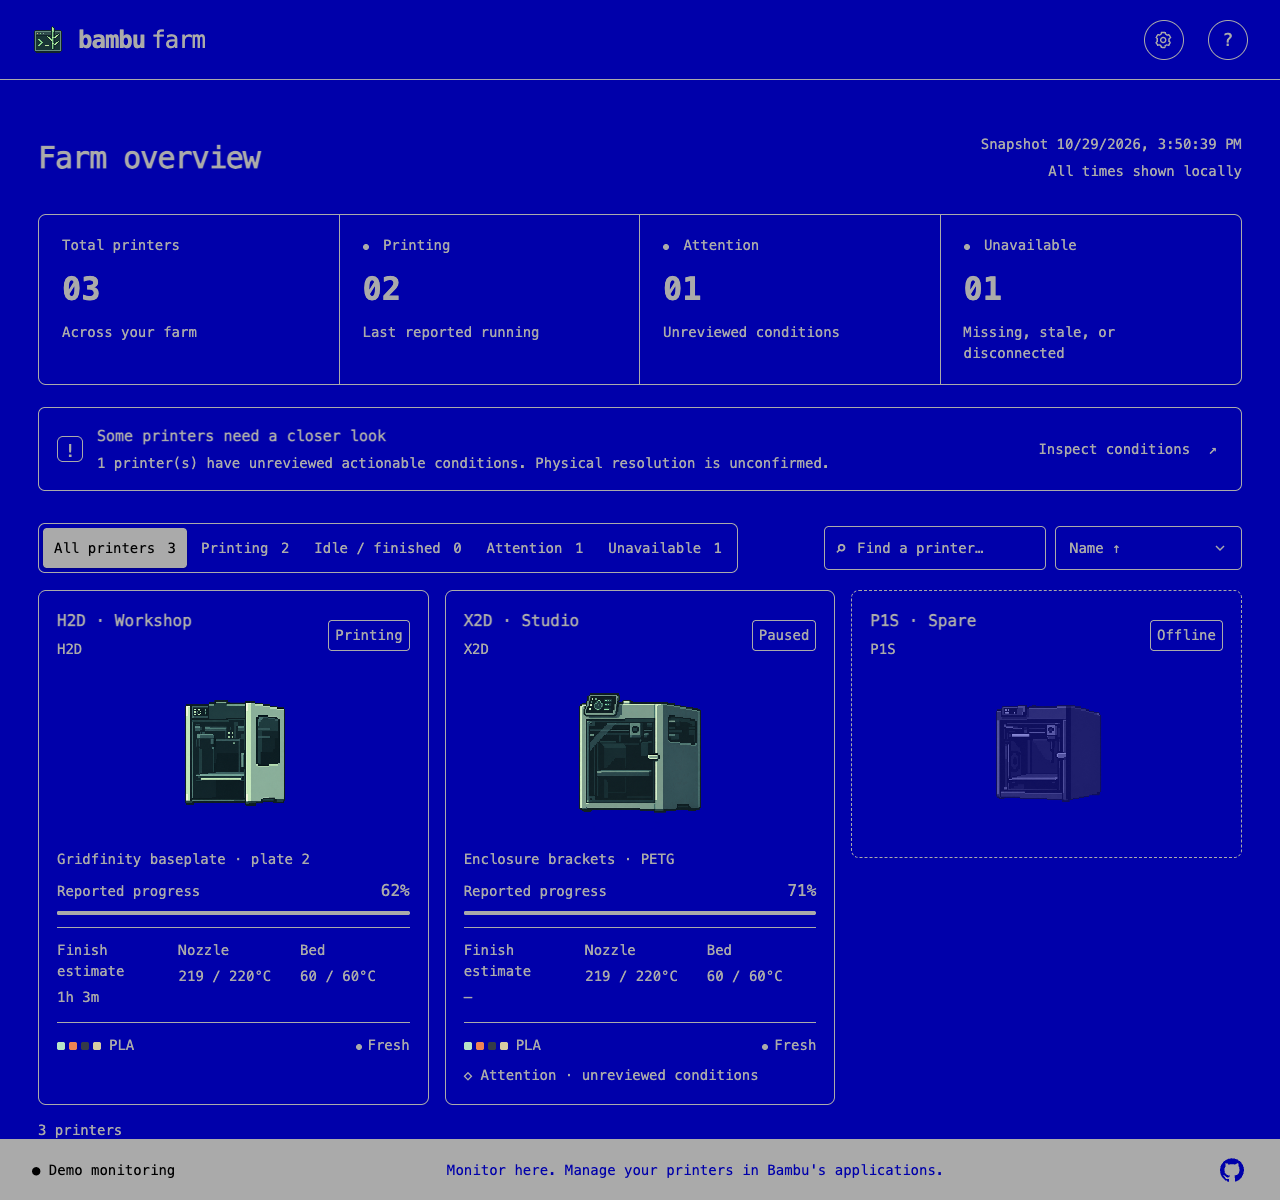
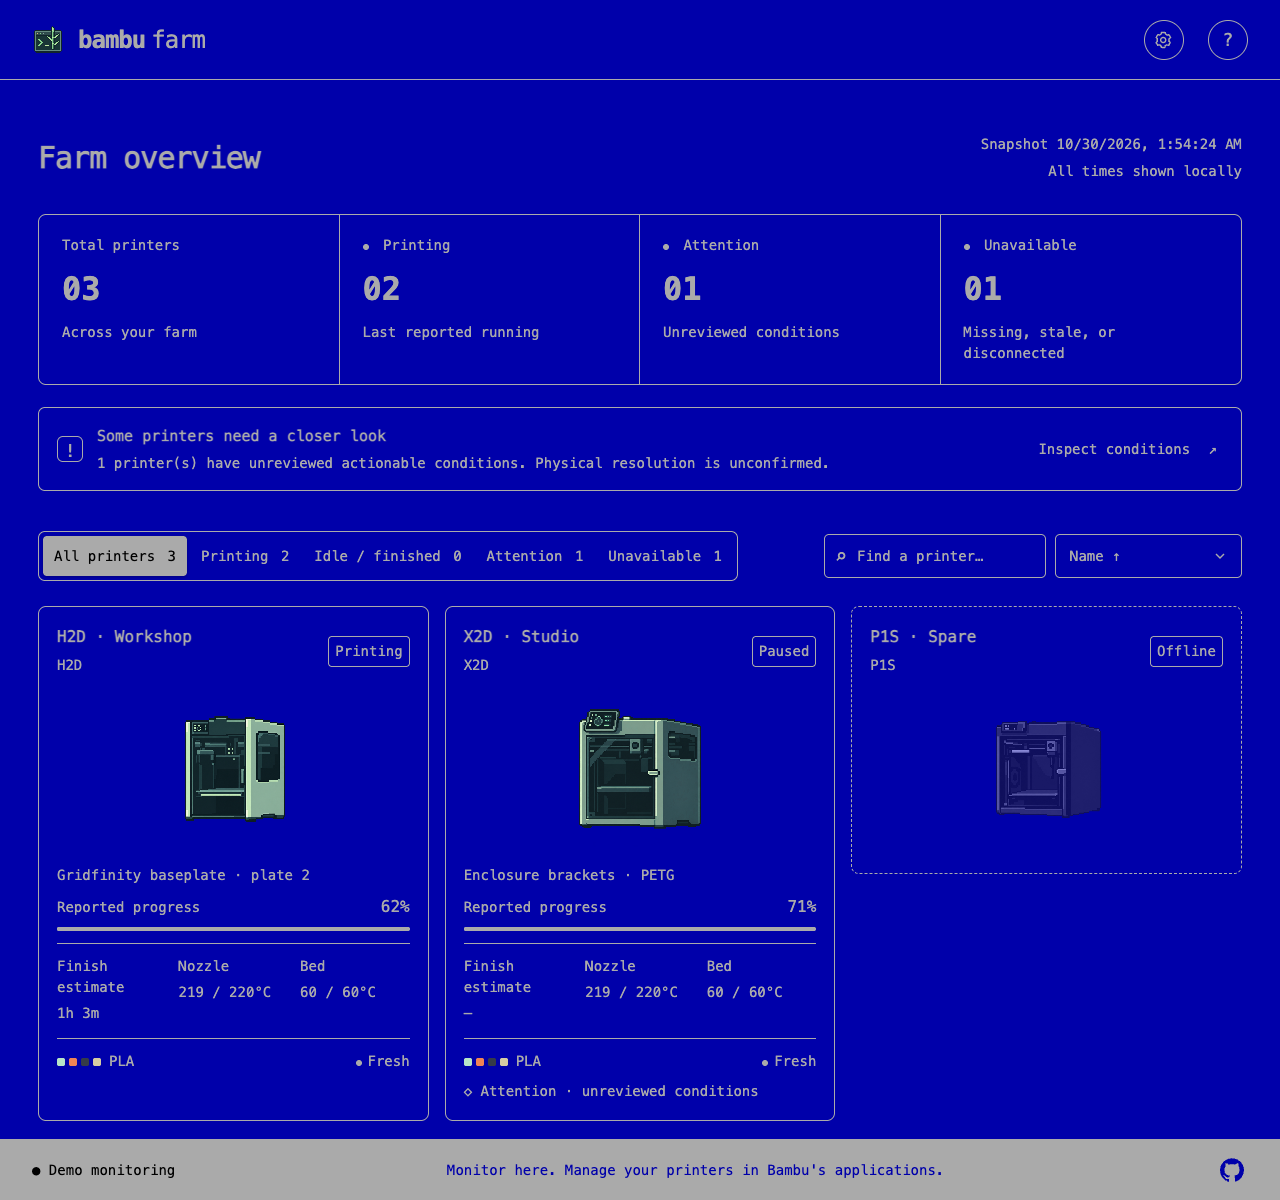
Prepare v0.4.7: compact browser header and pin printer toolbar

diff --git a/internal/webserver/assets/app.js b/internal/webserver/assets/app.js
@@ -384,6 +384,48 @@ $("#settings").onclick = () => $("#settings-dialog").showModal();
 $("#close-settings").onclick = () => $("#settings-dialog").close();
 $("#about").onclick = () => $("#about-dialog").showModal();
 $("#close-about").onclick = () => $("#about-dialog").close();
+// The header sits outside the scrolling workspace. Keep the height it releases
+// in the already-scrolled introduction, so collapse never shifts visible cards
+// or changes the scroll range. No animation: geometry and focus stay in sync.
+function setupWorkspaceLayout() {
+  const shell = $(".shell");
+  if (!shell) return;
+  const header = $("header"), toolbar = $(".toolbar");
+  let compact = false;
+  function measure() {
+    header.classList.remove("compact");
+    const expandedHeight = header.getBoundingClientRect().height;
+    header.classList.toggle("compact", compact);
+    const reclaimed = expandedHeight - header.getBoundingClientRect().height;
+    shell.style.setProperty("--header-reclaimed", `${reclaimed}px`);
+    const toolbarHeight = toolbar.getBoundingClientRect().height;
+    const minimum = Math.min(12 * parseFloat(getComputedStyle(document.documentElement).fontSize), innerHeight / 2);
+    const pin = shell.clientHeight >= toolbarHeight + minimum;
+    shell.classList.toggle("toolbar-scrolls", !pin);
+    shell.style.setProperty("--toolbar-clearance", pin ? `${toolbarHeight + 8}px` : "0px");
+  }
+  shell.addEventListener("scroll", () => {
+    const next = shell.scrollTop > 24;
+    if (next === compact) return;
+    compact = next;
+    measure();
+  }, {passive: true});
+  // Reflow can change header, toolbar, and footer heights (including 200% text).
+  const observer = new ResizeObserver(measure);
+  for (const element of [shell, header, toolbar]) observer.observe(element);
+  shell.addEventListener("focusin", event => {
+    const card = event.target.closest(".card");
+    if (!card) return;
+    requestAnimationFrame(() => {
+      if (document.activeElement !== card || shell.classList.contains("toolbar-scrolls")) return;
+      const top = shell.getBoundingClientRect().top + toolbar.getBoundingClientRect().height + 8;
+      const cardTop = card.getBoundingClientRect().top;
+      if (cardTop < top) shell.scrollTop += cardTop - top;
+    });
+  });
+  measure();
+}
+setupWorkspaceLayout();
 document.addEventListener("visibilitychange", () => {
   if (!controller) poll();
 });

diff --git a/internal/webserver/assets/index.html b/internal/webserver/assets/index.html
@@ -202,6 +202,11 @@
         Filters and sorting preserve your printer selection as updates arrive. The Idle / finished filter includes only currently available online printers explicitly reporting Idle or Finished. Offline, stale, missing, and unknown states are excluded; a finished job does not establish that the build plate is clear. Search narrows the selected filter.
       </p>
       <p>
+        Scrolling the farm compacts the header. The filter, search, and sort toolbar
+        stays beneath it once reached. Return to the top to expand the header.
+        In small workspaces, the toolbar scrolls with the cards to keep them reachable.
+      </p>
+      <p>
         Sorting always places online non-idle printers first, reported idle or
         finished printers next, and offline devices last. Name, Attention, or
         State ordering applies within each group. Unknown states stay outside

diff --git a/internal/webserver/assets/style.css b/internal/webserver/assets/style.css
@@ -158,6 +158,18 @@ i {
 .shell {
   min-height: 0;
   overflow: auto;
+  overflow-anchor: none;
+  scroll-padding-top: var(--toolbar-clearance, 0px);
+}
+/* Reclaim header space without moving the content currently being read. */
+header.compact {
+  min-height: 56px;
+  padding-block: 4px;
+}
+main::before {
+  content: "";
+  display: block;
+  height: var(--header-reclaimed, 0px);
 }
 .eyebrow {
   font-size: 0.875rem;
@@ -300,12 +312,20 @@ h2 > span {
   margin-left: 7px;
 }
 .toolbar {
+  position: sticky;
+  top: 0;
+  z-index: 1;
+  background: var(--bg);
+  padding-block: 8px;
   flex-wrap: wrap;
   display: flex;
   align-items: center;
   justify-content: space-between;
   gap: 12px;
   margin-bottom: 17px;
+}
+.shell.toolbar-scrolls .toolbar {
+  position: static;
 }
 .filters {
   display: flex;

diff --git a/internal/buildinfo/buildinfo.go b/internal/buildinfo/buildinfo.go
@@ -4,7 +4,7 @@ import "fmt"
 
 // Release builds inject these through -ldflags. Direct go builds remain useful.
 var (
-	Version = "0.4.6"
+	Version = "0.4.7"
 	Commit  = "unknown"
 	Date    = "unknown"
 )

diff --git a/docs/user/usage.md b/docs/user/usage.md
@@ -82,6 +82,8 @@ The dashboard shows the whole-farm summary, searchable/filterable printer cards,
 
 Use the single printer toolbar to choose **All printers**, **Printing**, **Idle / finished**, **Attention**, or **Unavailable**. Every filter tab shows its matching printer count before search is applied; attention and availability can overlap reported print states. Summary totals describe the whole farm and are not filter buttons. **Idle / finished** includes only currently available online printers explicitly reporting `IDLE` or `FINISH`, with a count before search is applied. Search narrows the selected filter; sorting applies within it. The count below the cards reads `3 printers` when all are visible or `2 of 3 printers` for a subset; Help explains how whole-farm state, attention, and availability counts overlap. Missing/stale telemetry, offline/cloud-disconnected devices, and unknown/active/paused/failed states are excluded from this view. A delayed or disconnected browser feed also removes these current-availability results until recovery. Existing Printing totals and filters still describe the last reported state, independently of availability; the groups can overlap Attention.
 
+Scrolling the farm compacts the branding/Settings/Help header; returning to the top expands it. Once the filter/search/sort toolbar reaches the header, it stays beneath it while printer cards scroll. In short windows or with heavily wrapped controls (including enlarged text), the toolbar scrolls normally when pinning would leave too little room for cards. Keyboard-focused card headings stay clear of the pinned toolbar.
+
 Idle and Finished stay distinct on the cards. Neither confirms that a build plate is clear, a fault is resolved, or a printer is ready for another job. Offline cards show the printer name, model, and image with an explicit **Offline** label, a dashed border, and dimmed grayscale artwork. Job, progress, time, temperature, and material readings are omitted from these cards; click or keyboard-open the card to inspect last-known details and notices. Attention warnings remain visible. Only an explicit device-offline report selects this layout; stale data or a disconnected cloud/browser feed does not. Other cards with unavailable telemetry show one warning that their readings are last-known and missing values remain unknown. Material text wraps; full job names and telemetry remain available through inspection. Polling preserves focus and cards that remain visible; if the focused card leaves the active filter, focus returns to that filter button. Connection/demo mode stays on the left of the footer and the repository link on the right, without a duplicate sidebar.
 
 Open **Settings** using the gear button beside Help in the dashboard header. Its **Browser notifications** section offers explicit Enable/Test/Disable controls and capability, permission, and submission status. Close with the close button or `Esc`; closing Settings leaves automatic notifications running. Browser permission and automatic opt-in are separate from native macOS delivery. New actionable incidents and confirmed print completions can notify while an enabled page runs; tabs/browsers share durable claims and reloads establish a baseline without backlog. See [browser notification policy, settings, and lifecycle limits](alerts.md#browser-system-notifications). Closing a notification never hides a notice.
@@ -120,11 +122,13 @@ These captures show the current dashboard using synthetic demo data, with printi
 | --- | --- |
 | [![Paused printer inspection with synthetic runout guidance and Hide notice locally](../../assets/screenshots/browser-printer-details.png)](../../assets/screenshots/browser-printer-details.png) | [![Scrolled printer inspector showing AMS slot materials, colors, estimates, and unknown values](../../assets/screenshots/browser-filament.png)](../../assets/screenshots/browser-filament.png) |
 
+The [scrolled desktop view](../../assets/screenshots/browser-scrolled.png) shows the compact header and pinned filter/search/sort toolbar at 1280 × 640. The toolbar also stays visible in the mobile offline-card view below.
+
 The [Appearance and notification settings](../../assets/screenshots/browser-themes.png) capture above shows the theme selector and Enable/Test/Disable controls with automatic browser notifications off. The [Idle / finished filter](../../assets/screenshots/browser-idle-filter.png) capture uses a separate synthetic finished-printer scenario; it does not establish that a printer is physically ready.
 
 | Mobile overview | Mobile offline card after scrolling |
 | --- | --- |
-| [![Browser overview at a 390 by 844 viewport](../../assets/screenshots/browser-mobile.png)](../../assets/screenshots/browser-mobile.png) | [![Focused offline printer card with grayscale artwork in the mobile workspace](../../assets/screenshots/browser-mobile-offline.png)](../../assets/screenshots/browser-mobile-offline.png) |
+| [![Browser overview at a 390 by 844 viewport](../../assets/screenshots/browser-mobile.png)](../../assets/screenshots/browser-mobile.png) | [![Focused offline printer card beneath the compact header and pinned mobile toolbar](../../assets/screenshots/browser-mobile-offline.png)](../../assets/screenshots/browser-mobile-offline.png) |
 
 ### TUI Server Status
 

diff --git a/docs/development/validation.md b/docs/development/validation.md
@@ -5,6 +5,20 @@
 This is the ongoing record of observed hardware behavior and remaining operational checks. Follow-up work is tracked in [#38](https://github.com/cliffom/bambu-tui/issues/38). Record application version, host OS/terminal, printer model/firmware, date, and actual results for each new check.
 
 
+## Compact browser header and pinned toolbar (#149)
+
+The v0.4.7 candidate on branch `issue-149-compact-header` (based on `14be0f2`) compacts the browser header after scrolling the farm and restores it at the top. Reclaimed space stays in the scrolled introduction so content does not jump. The complete toolbar pins beneath the header when reached; small workspaces use normal toolbar scrolling. Keyboard-focused card headings stay clear of pinned controls.
+
+On 2026-10-29 (PDT), macOS 27.0.1 arm64, Go 1.27.3, and headless Chrome 156.0.8078.79, all 30 empty/single/24-printer layout cases passed: 1920 × 1080, 1280 × 800, 1280 × 240, 390 × 844, 320 × 568, and 568 × 320 at default text; 320 × 568, 568 × 320, 780 × 844, and 390 × 844 at 200% root text. Added checks cover collapse, stable content position and total scroll range, toolbar flow/pinning or small-workspace fallback, search/sort/poll continuity, focused-card clearance, expansion at the top, and resize while compact. Existing filtering, footer, dialog, and focus checks remain passing. All 28 host/bundled-theme layout combinations and all 39 dependency-free browser interaction tests passed.
+
+The documented `tools/capture-browser-screenshots.cjs` command ran against the isolated synthetic demo at port 8149 with `SCREENSHOT_DIR=/tmp/bambu-149-gallery`, then changed captures were copied into `assets/screenshots/`. Refreshed all six farm/theme overviews, the finished-filter view, and both mobile views; added [scrolled desktop](../../assets/screenshots/browser-scrolled.png). Visually inspected all thirteen generated captures: desktop 1280 × 1200 (all six themes), compact/pinned desktop 1280 × 640, mobile 390 × 844 (expanded and compact/pinned), and actual Settings/inspector/filament dialog bounds. Artwork, labels, focus, and toolbar separation remain readable. Representative C64 320 × 568 and IBM 3270 568 × 320 captures at 200% text were also inspected; small views require workspace/page scrolling. Settings, printer-details, and filament captures retain their existing bytes because their cropped dialog contents/layout are unaffected; timestamp-only differences do not warrant replacements. Historical before/after and #145 evidence images remain unchanged. This refresh supersedes the current gallery files described in the older documentation-capture entry below.
+
+README, usage guide/gallery, in-app Help, UI direction, and contributor validation guidance now explain collapse, pinning, and the small-workspace fallback. The farm-view guide describes TUI behavior and shared filter semantics, which are unchanged; alert, diagnostic, and other support guides do not depict the changed browser chrome. TUI screenshots remain accurate because terminal presentation is unchanged.
+
+Documentation/format checks, pinned Go/workflow/Make lint, all Go race/PTY tests, vet, native build/version output, vulnerability scanning (no findings), and macOS-hosted four-platform release packaging passed. Archive inventory/docs, universal helper architecture/signature checks, and checksums passed for local ad-hoc candidates. VERSION and the direct-build fallback prepare 0.4.7; no tag or release was published.
+
+Safari, Firefox, actual mobile devices, live printers, and physical terminal appearance were not newly validated. The TUI presentation is unchanged; browser synthetic validation does not establish hardware or real-account behavior.
+
 ## Browser documentation screenshots
 
 On 2026-10-29 (PDT), refreshed the README overview and added a [user-guide gallery](../user/usage.md#browser-screenshots) from the v0.4.6 UI (source commit `017397b`) on macOS 27.0.1 arm64 with headless Chrome 156.0.8078.73. The new `tools/capture-browser-screenshots.cjs` drives actual dashboard controls against a demo-only server with synthetic H2D/X2D/P1S display fixtures; it makes no cloud connection, notification request, or local notice write.

diff --git a/docs/development/contributing.md b/docs/development/contributing.md
@@ -84,7 +84,7 @@ For UI and operator-visible behavior changes, complete the [documentation and sc
 
 For browser changes, run `node --test tools/test-browser-notices.cjs tools/test-browser-notifications.cjs tools/test-browser-themes.cjs` with Node.js 18 or newer (also run by Formatting and lint CI). These dependency-free tests exercise the dashboard script with a minimal DOM stand-in; use a real browser separately to inspect layout and keyboard behavior.
 
-For dashboard/filter/status-bar layout regressions, start `./bin/bambu-tui serve --demo --config /tmp/bambu-layout.toml` with an unused demo configuration path, then run `node tools/test-browser-layout.cjs`. This optional real-browser check requires Playwright (`npm install --prefix /tmp/bambu-browser playwright@1.64.1`, then set `NODE_PATH=/tmp/bambu-browser/node_modules`) and a compatible Chromium installation (`/tmp/bambu-browser/node_modules/.bin/playwright install chromium`, or set `BROWSER_PATH` to an installed Chrome executable). Set `DEMO_URL` for a non-default demo port and `SCREENSHOT_DIR` to save screenshots. It checks empty/single/24-printer fixtures, idle/finished membership and attention overlap, feed loss/recovery, focused-card fallback, image continuity, scrolling/polling, filtering, dialogs and keyboard focus at desktop/mobile widths, short landscape heights, and 200% root text size, including the page-scrolling fallback when header/footer space is insufficient; it rejects non-demo servers. It is separate from the dependency-free CI tests.
+For dashboard/filter/status-bar layout regressions, start `./bin/bambu-tui serve --demo --config /tmp/bambu-layout.toml` with an unused demo configuration path, then run `node tools/test-browser-layout.cjs`. This optional real-browser check requires Playwright (`npm install --prefix /tmp/bambu-browser playwright@1.64.1`, then set `NODE_PATH=/tmp/bambu-browser/node_modules`) and a compatible Chromium installation (`/tmp/bambu-browser/node_modules/.bin/playwright install chromium`, or set `BROWSER_PATH` to an installed Chrome executable). Set `DEMO_URL` for a non-default demo port and `SCREENSHOT_DIR` to save screenshots. It checks empty/single/24-printer fixtures, idle/finished membership and attention overlap, feed loss/recovery, focused-card fallback, image continuity, scrolling/polling, header collapse/restoration, toolbar pinning and small-workspace fallback, filtering, dialogs and keyboard focus at desktop/mobile widths, short landscape heights, and 200% root text size, including the page-scrolling fallback when header/footer space is insufficient; it rejects non-demo servers. It is separate from the dependency-free CI tests.
 
 With the same synthetic server and Playwright environment, run `node tools/test-browser-theme-layout.cjs` to verify Follow host and all bundled themes at 1280×800, 390×844, 320×568 with 200% text, and 568×320 with 200% text. It checks theme role mapping, native form color scheme, selected/primary/warning/footer contrast for bundled themes, Settings and printer-dialog overflow, focus return, sprite continuity, and reload persistence. `SCREENSHOT_DIR` saves theme-specific farm/Settings captures. Use a custom `theme_file` or `serve --theme` to inspect host inheritance. These checks establish Chromium behavior, not Safari/Firefox or actual mobile presentation.
 

diff --git a/docs/development/ui-direction.md b/docs/development/ui-direction.md
@@ -75,6 +75,8 @@ Map semantic RGB roles without correcting custom colors. Use the browser's dark 
 
 Keep the browser status bar in its own row at the viewport bottom, with a full-width top border matching the header divider. Let the farm workspace scroll above it and reserve the bar's actual reflowed height so cards and result metadata remain reachable. Preserve connection/demo status, the read-only monitoring message, and an accessible GitHub repository icon link at narrow widths and enlarged text sizes; dialogs retain their normal modal focus and scrolling. Reserve a usable workspace height even when the header and wrapped footer exceed the viewport budget; let the whole page scroll in short windows so filters, cards, and the footer remain reachable by keyboard and pointer.
 
+Compact the branding/Settings/Help header when the farm workspace scrolls down and restore it at the top. Keep visible content and the scroll range stable during collapse/expansion. Pin the complete filter/search/sort toolbar immediately beneath the compact header once reached, using an opaque theme background and keeping focused card headings clear. If the toolbar would leave less than the minimum usable workspace (the smaller of 12rem or half the viewport height), let it scroll normally. Recalculate after resizing or text reflow; preserve modal layering and avoid motion during geometry changes.
+
 Use one primary browser filter toolbar (All printers, Printing, Idle / finished, Attention, Unavailable). Every filter tab shows its matching count before search, using the same predicate as its results. Whole-farm summary totals are static; keep connection/demo status on the left of the footer and the repository link on the right. Keep the browser header to branding, Settings, and Help; omit the redundant MONITORING badge. Do not reintroduce a parallel sidebar or decorative headings/counts that duplicate these controls. The Idle / finished view uses the session's current-telemetry classification, requires an available browser feed, and excludes unknown/offline/stale readings. Its count is the eligible farm subset before search, distinct from last-reported Printing totals. Retain individual Idle/Finished labels and overlapping attention; never claim physical readiness. Keep a compact result count (`3 printers` for all results, `2 of 3 printers` for a subset), snapshot metadata, and active filter pressed state. Put summary-overlap explanations in Help rather than beside the cards. If a focused card leaves the view, focus returns to the active filter.
 
 For devices explicitly reported offline (`online === false`), show only name, model, decorative image/fallback, a textual Offline label, and any attention warning on the browser card. Omit job/progress, time estimates, temperatures, and material details. Use a dashed border and desaturated, dimmed image while retaining readable text, theme contrast, keyboard focus, and access to the inspector. Preserve image/card identity through online/offline transitions. Stale/missing telemetry and cloud/browser-feed disconnection do not independently select this layout; offline never establishes fault resolution.

diff --git a/docs/CHANGELOG.md b/docs/CHANGELOG.md
@@ -1,5 +1,12 @@
 # Changelog
 
+## 0.4.7 — Compact scrolling dashboard
+
+- Compact the browser header while scrolling the farm, restoring it at the top (#149). Keep visible content steady as header space is reclaimed.
+- Pin the filter, search, and sort toolbar beneath the compact header once reached. In small workspaces, let the toolbar scroll normally so cards remain reachable; preserve keyboard access, polling, and dialog behavior.
+
+See [browser dashboard behavior](user/usage.md#local-web-dashboard) and [validation evidence and limits](development/validation.md#compact-browser-header-and-pinned-toolbar-149).
+
 ## 0.4.6 — Simplified offline printer cards
 
 - Show offline browser cards with only printer name, model, image, an explicit Offline label, and any attention warning (#145). Omit job, progress, time, temperature, and material readings from these cards while retaining inspection details.

diff --git a/README.md b/README.md
@@ -24,6 +24,8 @@ A visual farm overview with searchable, filterable printer cards, model illustra
 
 ![Current browser dashboard with one filter toolbar, printing and paused printers, a simplified offline card, and the bottom status bar.](assets/screenshots/browser.png)
 
+Scroll the farm to [compact the header and keep the filter/search toolbar beneath it](assets/screenshots/browser-scrolled.png). Small workspaces let the toolbar scroll so cards remain reachable.
+
 Choose **Settings > Appearance** to follow the terminal theme or select a bundled theme for this browser. Settings also contains the separate, opt-in browser notification controls.
 
 | Gruvbox Dark dashboard | Hotdog Settings |
